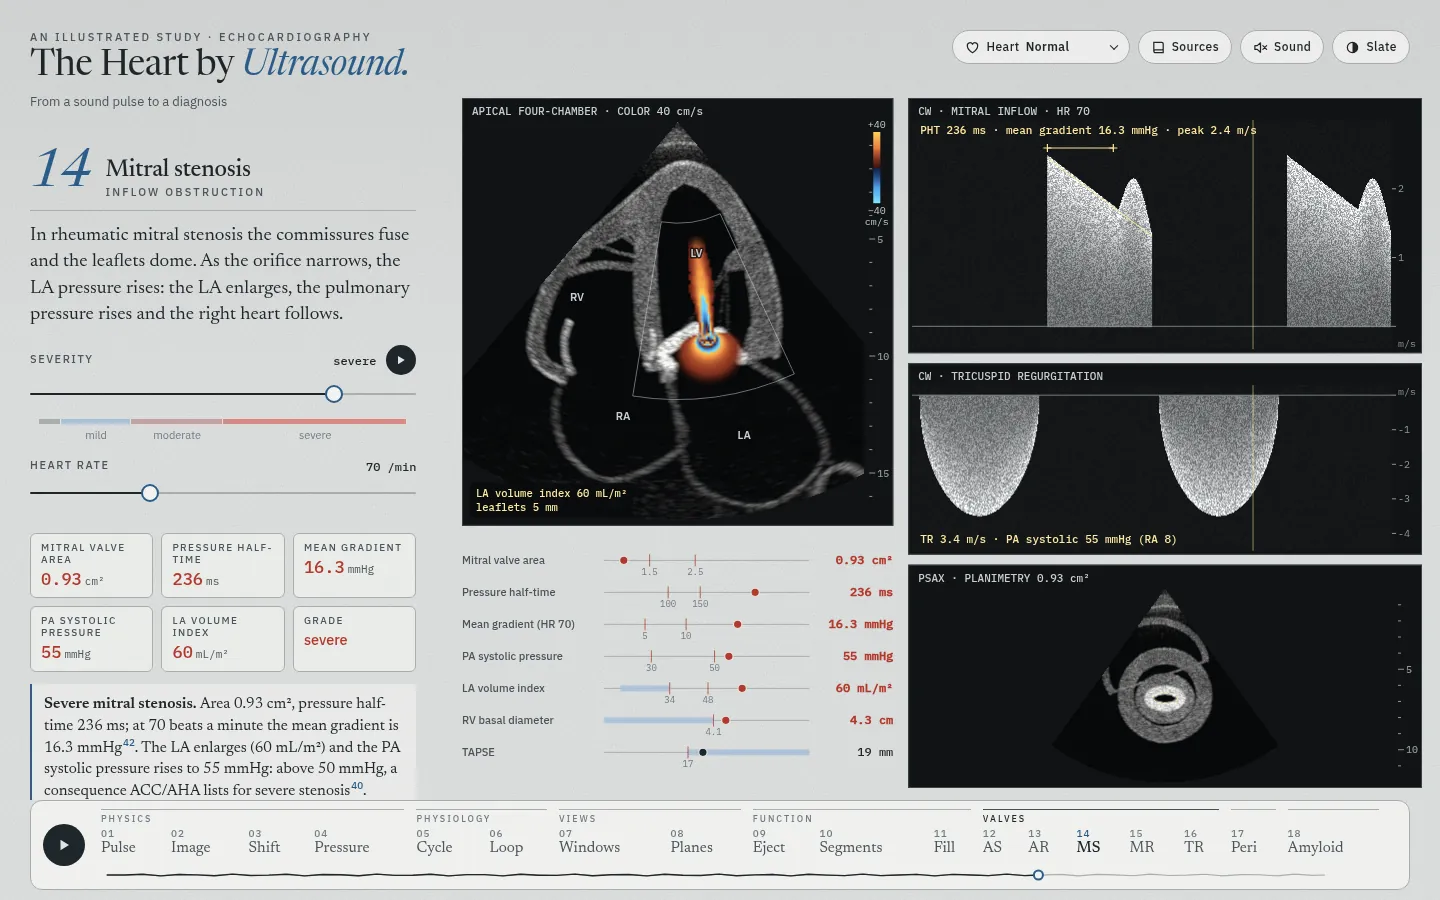
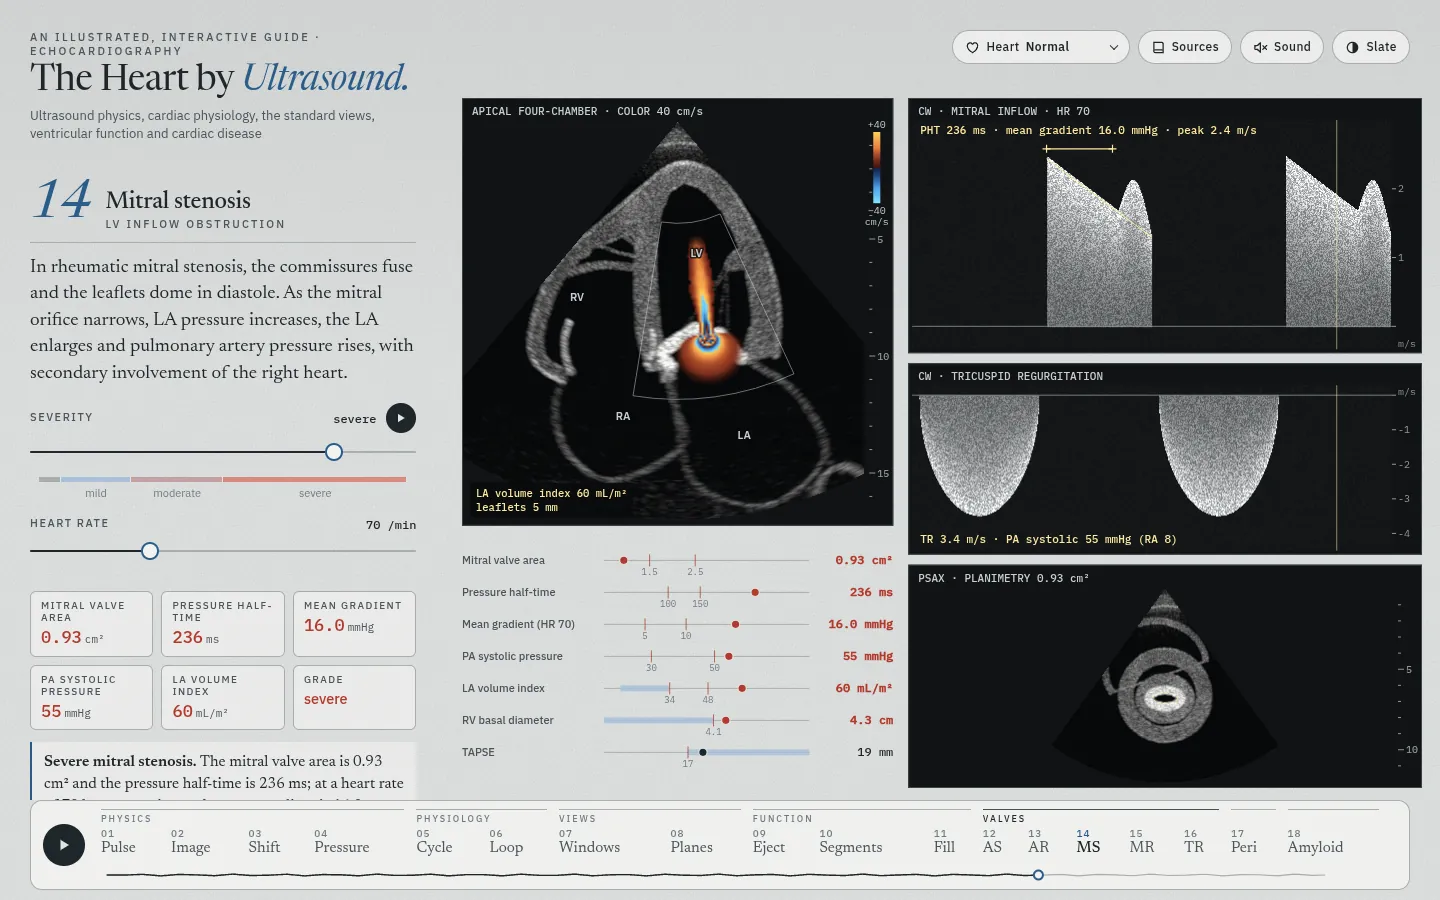
Mitral stenosis: a sourced mean gradient at every heart rate
The old model held the stroke volume at 70 mL and took the filling
period as RR - QS2 - IVRT. At 110/min the period fell to 170 ms, and
the severe valve of the video (0.88 cm2) gave 87.8 mmHg.

- src/ch/ms.js: the stroke volume stays at 70 mL and the diastolic
  filling period at 44% of RR, as measured with exercise in MS
  (Johnston 1986, Kim 2026, Moro 1989). The severe valve gives
  17.9 mmHg at 70/min and 44.0 mmHg at 110/min. The pressure
  half-time stays 220 / area at every rate.
- src/refs.js: Johnston 1986, Kim 2026, Moro 1989 and Sagar 1987,
  checked against PubMed and Crossref.
- index.html: chapter 14 states the exercise data and what the
  figure holds, with the four sources.
- README: the model note, and the check of the model against seven
  sets of measurements from six studies.
- docs/screenshots/ms.webp: retaken at its earlier state.

The chapter 14 video was rendered again (video/out, not in git).

Claude-Session: https://claude.ai/code/session_01L6ffXHBzN7s27eDw35KmyT

Changed region(s): [[0.0312, 0.0311, 0.3125, 0.9022], [0.7188, 0.1556, 0.75, 0.1867], [0.4688, 0.3733, 0.5, 0.4044]]

diff --git a/src/refs.js b/src/refs.js
@@ -41,7 +41,9 @@ export const REFS = {
   iac2025: {"text": "Intersocietal Accreditation Commission. IAC Standards and Guidelines for Adult Echocardiography Accreditation. Published April 1, 2025.", "url": "https://intersocietal.org/wp-content/uploads/2025/08/IACAdultEchocardiographyStandards2025.pdf"},
   iaea2014: {"text": "Lacefield JC. Physics of ultrasound; Ultrasound imaging. In: Dance DR, Christofides S, Maidment ADA, et al, eds. Diagnostic Radiology Physics: A Handbook for Teachers and Students. Vienna: International Atomic Energy Agency; 2014:291-331.", "url": "https://www-pub.iaea.org/MTCD/Publications/PDF/Pub1564webNew-74666420.pdf"},
   javadi2010: {"text": "Javadi MS, Lautamäki R, Merrill J, et al. Definition of vascular territories on myocardial perfusion images by integration with true coronary anatomy: a hybrid PET/CT analysis. J Nucl Med 2010;51:198-203.", "doi": "10.2967/jnumed.109.067488", "pmid": "20080895"},
+  johnston1986: {"text": "Johnston DL, Kostuk WJ. Left and right ventricular function during symptom-limited exercise in patients with isolated mitral stenosis. Chest 1986;89:186-191.", "doi": "10.1378/chest.89.2.186", "pmid": "3943378"},
   kelly1992: {"text": "Kelly RP, Ting CT, Yang TM, et al. Effective arterial elastance as index of arterial vascular load in humans. Circulation 1992;86:513-521.", "doi": "10.1161/01.cir.86.2.513", "pmid": "1638719"},
+  kim2026: {"text": "Kim J, Choi KH, Kim J, et al. Hemodynamic Responses to Exercise and Predictors of Exercise Capacity in Mitral Stenosis: Exercise Catheterization Study. JACC Asia 2026;6:1433-1443.", "doi": "10.1016/j.jacasi.2026.04.040", "pmid": "42360247"},
   klabunde_mr: {"text": "Klabunde RE. Mitral regurgitation. Cardiovascular Physiology Concepts (cvphysiology.com). Revised 02/03/2024.", "url": "https://cvphysiology.com/heart-disease/hd009c"},
   klein2013: {"text": "Klein AL, Abbara S, Agler DA, et al. American Society of Echocardiography clinical recommendations for multimodality cardiovascular imaging of patients with pericardial disease: endorsed by the Society for Cardiovascular Magnetic Resonance and Society of Cardiovascular Computed Tomography. J Am Soc Echocardiogr 2013;26:965-1012.e15.", "doi": "10.1016/j.echo.2013.06.023", "pmid": "23998693"},
   kovacs2009: {"text": "Kovacs G, Berghold A, Scheidl S, et al. Pulmonary arterial pressure during rest and exercise in healthy subjects: a systematic review. Eur Respir J 2009;34:888-894.", "doi": "10.1183/09031936.00145608", "pmid": "19324955"},
@@ -56,6 +58,7 @@ export const REFS = {
   mitchellwang2014: {"text": "Mitchell JR, Wang JJ. Expanding application of the Wiggers diagram to teach cardiovascular physiology. Adv Physiol Educ 2014;38:170-175.", "doi": "10.1152/advan.00123.2013", "pmid": "24913453"},
   mongegarcia2020: {"text": "Monge García MI, Santos A. Understanding ventriculo-arterial coupling. Ann Transl Med 2020;8:795.", "doi": "10.21037/atm.2020.04.10", "pmid": "32647720"},
   moody2023: {"text": "Moody WE, Turvey-Haigh L, Knight D, et al. British Society of Echocardiography guideline for the transthoracic echocardiographic assessment of cardiac amyloidosis. Echo Res Pract 2023;10:13.", "doi": "10.1186/s44156-023-00028-7", "pmid": "37653443"},
+  moro1989: {"text": "Moro E, Vletter WB, Pop G, et al. Exercise Doppler echocardiography in patients with pure mitral stenosis. G Ital Cardiol 1989;19:477-482.", "pmid": "2806782"},
   mukherjee2025: {"text": "Mukherjee M, Rudski LG, Addetia K, et al. Guidelines for the echocardiographic assessment of the right heart in adults and special considerations in pulmonary hypertension: recommendations from the American Society of Echocardiography. J Am Soc Echocardiogr 2025;38:141-86.", "doi": "10.1016/j.echo.2025.01.006", "pmid": "40044341"},
   nagueh1997: {"text": "Nagueh SF, Middleton KJ, Kopelen HA, et al. Doppler tissue imaging: a noninvasive technique for evaluation of left ventricular relaxation and estimation of filling pressures. J Am Coll Cardiol 1997;30:1527-1533.", "doi": "10.1016/s0735-1097(97)00344-6", "pmid": "9362412"},
   nagueh2009: {"text": "Nagueh SF, Appleton CP, Gillebert TC, et al. Recommendations for the Evaluation of Left Ventricular Diastolic Function by Echocardiography. J Am Soc Echocardiogr 2009;22:107-133.", "doi": "10.1016/j.echo.2008.11.023", "pmid": "19187853"},
@@ -78,6 +81,7 @@ export const REFS = {
   quinones2002: {"text": "Quiñones MA, Otto CM, Stoddard M, et al. Recommendations for quantification of Doppler echocardiography: a report from the Doppler Quantification Task Force of the Nomenclature and Standards Committee of the American Society of Echocardiography. J Am Soc Echocardiogr 2002;15:167-184.", "doi": "10.1067/mje.2002.120202", "pmid": "11836492"},
   rubin2000: {"text": "Rubin DN, Yazbek N, Garcia MJ, et al. Qualitative and quantitative effects of harmonic echocardiographic imaging on endocardial edge definition and side-lobe artifacts. J Am Soc Echocardiogr 2000;13:1012-1018.", "doi": "10.1067/mje.2000.108348", "pmid": "11093103"},
   rudski2010: {"text": "Rudski LG, Lai WW, Afilalo J, et al. Guidelines for the echocardiographic assessment of the right heart in adults: a report from the American Society of Echocardiography. J Am Soc Echocardiogr 2010;23:685-713.", "doi": "10.1016/j.echo.2010.05.010", "pmid": "20620859"},
+  sagar1987: {"text": "Sagar KB, Wann LS, Paulson WJ, et al. Role of exercise Doppler echocardiography in isolated mitral stenosis. Chest 1987;92:27-30.", "doi": "10.1378/chest.92.1.27", "pmid": "3595246"},
   saric2016: {"text": "Saric M, Armour AC, Arnaout MS, et al. Guidelines for the Use of Echocardiography in the Evaluation of a Cardiac Source of Embolism. J Am Soc Echocardiogr 2016;29:1-42.", "doi": "10.1016/j.echo.2015.09.011", "pmid": "26765302"},
   schimpf2008: {"text": "Schimpf R, Antzelevitch C, Haghi D, et al. Electromechanical coupling in patients with the short QT syndrome: further insights into the mechanoelectrical hypothesis of the U wave. Heart Rhythm 2008;5:241-245.", "doi": "10.1016/j.hrthm.2007.10.015", "pmid": "18242547"},
   schulzmenger2025: {"text": "Schulz-Menger J, Collini V, Gröschel J, et al. 2025 ESC Guidelines for the management of myocarditis and pericarditis. Eur Heart J 2025;46:3952-4041.", "doi": "10.1093/eurheartj/ehaf192", "pmid": "40878297"},

diff --git a/src/ch/ms.js b/src/ch/ms.js
@@ -12,13 +12,20 @@ import { JETS } from '../jets.js';
 
 const KEY = 'msS';
 const mean = (fn, n = 400) => { let a = 0; for (let i = 0; i < n; i++) a += fn((i + 0.5) / n); return a / n; };
+// With exercise in MS the stroke volume changes little, so the output rises with the rate
+// (Johnston 1986; Kim 2026), and the filling period keeps its share of the cycle: 424 ms at
+// 60/min and 272 ms at 100/min (Moro 1989).
+const SV = 70;                                                // mL at every heart rate
+const FILL = 0.44;                                            // filling period / RR
 
-/** Mitral inflow for a stenotic valve: PHT = 220 / MVA; the gradient rises with heart rate. */
+/**
+ * Mitral inflow for a stenotic valve: PHT = 220 / MVA at any heart rate. The mean flow rises with
+ * the rate and the mean gradient about as its square; with exercise from 74 to 110/min the mean
+ * gradient doubled, 9 to 18 mmHg (Sagar 1987).
+ */
 export function mitral({ mva, sv, hr }) {
   const RRms = 60000 / hr;
-  const qs2 = 541 - 2.2 * hr;                                // ms, Boudoulas 1981 (men)
-  const ivrt = 96 * Math.sqrt(RRms / 857);
-  const dfp = Math.max(80, RRms - qs2 - ivrt);                 // ms of filling
+  const dfp = FILL * RRms;                                    // ms of filling
   const pht = 220 / mva;                                      // ms (MVA = 220 / PHT)
   const dt = pht / (1 - Math.SQRT1_2);                        // linear fall: time to zero flow
   const env = (t) => Math.max(0, 1 - t / dt) + 0.25 * (t > dfp - 120 ? Math.sin(Math.PI * (t - dfp + 120) / 120) : 0);
@@ -44,7 +51,7 @@ export function model(s, hr = 70) {
   const m = TRK(s);
   m.s = s;
   m.mva = mvaOf(s);
-  Object.assign(m, mitral({ mva: m.mva, sv: 70, hr }));
+  Object.assign(m, mitral({ mva: m.mva, sv: SV, hr }));
   m.hr = hr;
   m.rap = m.pasp >= 50 ? 8 : 3;
   m.trv = Math.sqrt(Math.max(0, m.pasp - m.rap) / 4);
@@ -86,7 +93,7 @@ function a4c(ctx, box, m, t) {
   const since = t >= t0 ? t - t0 : t + RR - t0;
   const a = since < fill && m.s > 0.08 ? Math.min(1, since / 40) * clamp(m.env((since / fill) * m.dfp), 0.3, 1) : 0;
   const jl = 2.5 + 2.5 * m.s;
-  const jet = m.s > 0.08 ? { q: (70 / (m.dfp / 1000)) * 1.1, vc: m.tip * 0.6, jl, jw: 0.9 + m.tip * 0.4, a } : null;
+  const jet = m.s > 0.08 ? { q: (SV / (m.dfp / 1000)) * 1.1, vc: m.tip * 0.6, jl, jw: 0.9 + m.tip * 0.4, a } : null;
   drawA4C(ctx, box, g, {
     t, depth: 16 + m.s, title: fit(box.w, 'APICAL FOUR-CHAMBER · COLOR 40 cm/s', 'A4C · COLOR 40'),
     ...(JETS === 'plume'

diff --git a/index.html b/index.html
@@ -941,6 +941,7 @@
         <li><b>Planimetry</b> of the mitral orifice is performed in the parasternal short-axis view, which also displays the commissural fusion<span class="cite" data-ref="otto2020"></span>. When the methods give discordant areas, planimetry is the reference method<span class="cite" data-ref="baumgartner2009"></span>.</li>
         <li>The <b>pressure half-time</b> is the time required for the peak transmitral pressure gradient to fall by half; at that time, the velocity has fallen to about 70% of its peak<span class="cite" data-ref="pandian2023,quinones2002"></span>. The constant 220 is empirical<span class="cite" data-ref="baumgartner2009"></span>; Hatle described the method in 1979<span class="cite" data-ref="hatle1979"></span>. The pressure half-time is not reliable immediately after balloon valvotomy or in the presence of severe aortic regurgitation or abnormal LV compliance<span class="cite" data-ref="baumgartner2009"></span>.</li>
         <li>The <b>mean gradient</b> varies with heart rate and transmitral flow, so it is not a criterion of severity; it should be reported together with the heart rate<span class="cite" data-ref="otto2020"></span>. In the figure, the same valve produces a higher mean gradient at a faster heart rate.</li>
+        <li>With <b>exercise</b>, the stroke volume changes little, so the cardiac output rises with the heart rate<span class="cite" data-ref="johnston1986,kim2026"></span>. The diastolic filling period stays near 44% of the cardiac cycle: 424 ms at 60 and 272 ms at 100 beats per minute<span class="cite" data-ref="moro1989"></span>. In 10 patients with a mean valve area of 1.0 cm², exercise from 74 to 110 beats per minute raised the mean gradient from 9 to 18 mmHg<span class="cite" data-ref="sagar1987"></span>. The figure holds the stroke volume at 70 mL and the filling period at 44% of the cycle.</li>
         </ul>
         <h3>Key points</h3>
         <ol class="steps">

diff --git a/README.md b/README.md
@@ -111,7 +111,7 @@ Chapter 08 shows the planes together. The apical views share the LV long axis; t
 - **Play** moves the slider through the whole course and starts again. It starts when the page opens; any control stops it. The beat runs all the time; there is no cine switch.
 - **Several views change together.** A 2D view drawn to scale (a caliper on the screen reads the value in the text), three or four Doppler strips with a cursor at the same moment of the beat, a strip of measurements against their cut-offs, and the guideline table with the current column marked.
 - **Grades and stages.** Regurgitation follows ASE 2017 (Zoghbi), with EACVI 2022 for massive and torrential TR; aortic stenosis follows Baumgartner 2017; mitral stenosis follows ASE 2023 (Pandian); diastolic function follows ASE 2025 (Nagueh). The LV and atrial consequences follow the ACC/AHA 2020 stages (Otto), for example stage C2 in MR at LVEF ≤60% or end-systolic diameter ≥40 mm. Effusion size follows ESC 2015 and 2025 (<10, 10–20, >20 mm at end-diastole); the echo signs of tamponade follow ASE 2013 (Klein) and ESC 2025 (Schulz-Menger). The amyloid bands follow the ESC 2021 echo criteria (Garcia-Pavia): an unexplained wall of 12 mm or more, plus two of three findings (grade 2 or worse diastolic dysfunction; septal s′, e′ and a′ all below 5 cm/s; GLS below 15% in absolute value) or a multiparametric score of 8 or more (Boldrini 2020).
-- **What the model is.** The orifice or valve area drives the numbers (PISA, continuity equation, pressure half-time = 220 ÷ area); the chamber sizes, vein flows and pressures follow illustrative tracks set inside the guideline bands. In the pericardium page the effusion drives the pressure in the sac; tamponade starts where that pressure reaches the RA pressure, and the right heart then folds in during its relaxation. In the amyloid page the burden blends the heart mesh from its normal to its amyloid corner: the walls, cavity, atria, valves, atrial septum, RV wall and pericardial space come from the mesh (the calipers measure IVSd 9.0 to 16.8 mm, LVIDd 46.8 to 39.8 mm and PWd 8.9 to 15.0 mm), and the Doppler, strain and filling values follow a track from normal to grade 3 filling set inside the cited ranges. They are teaching values, not patient data.
+- **What the model is.** The orifice or valve area drives the numbers (PISA, continuity equation, pressure half-time = 220 ÷ area); the chamber sizes, vein flows and pressures follow illustrative tracks set inside the guideline bands. In the mitral stenosis page the heart rate changes as with exercise: the stroke volume stays at 70 mL and the diastolic filling period at 44% of the cardiac cycle (Johnston 1986, Kim 2026, Moro 1989), so the mean gradient rises about as the square of the rate. In the pericardium page the effusion drives the pressure in the sac; tamponade starts where that pressure reaches the RA pressure, and the right heart then folds in during its relaxation. In the amyloid page the burden blends the heart mesh from its normal to its amyloid corner: the walls, cavity, atria, valves, atrial septum, RV wall and pericardial space come from the mesh (the calipers measure IVSd 9.0 to 16.8 mm, LVIDd 46.8 to 39.8 mm and PWd 8.9 to 15.0 mm), and the Doppler, strain and filling values follow a track from normal to grade 3 filling set inside the cited ranges. They are teaching values, not patient data.
 
 ## The echo images
 
@@ -295,6 +295,23 @@ node tools/render-video.mjs --reel --stills=7,42.5             # PNG stills at t
 
 ## Checks run before this commit
 
+- Mitral stenosis gradient across heart rates (chapter 14). The old model held the stroke volume at 70 mL and took the filling period as RR − QS2 − IVRT, with QS2 from Boudoulas 1981. At 110/min the filling period fell to 170 ms, and the severe valve of the video (0.88 cm²) gave 87.8 mmHg. The model now holds the stroke volume at 70 mL and the filling period at 44% of RR. The sources are PubMed abstracts and, for Kim 2026, Faria 2020 and Saggu 2015, the tables of the full text in PMC.
+  - Stroke volume with exercise in MS: unchanged, and the cardiac output rose with the heart rate alone (Johnston 1986). The stroke volume index went from 47.7 to 49.8 mL/m² between 72.6 and 116.6/min, by the direct Fick method (Kim 2026). It was unchanged in the patients as a group (Dahan 1993, PMID 8426002). The stroke index changed little with exercise or propranolol (Giuffrida 1979, PMID 495501) and with atenolol (Stoll 1995, PMID 7863993). None of these series shows a fall in stroke volume at the faster rate.
+  - Filling period with exercise: 424 ms at 60/min and 272 ms at 100/min, 42% and 45% of RR (Moro 1989). The model gives 440 and 264 ms. With atenolol, at rest and on exercise, the heart rate fell by more than 20% and the filling period lengthened by more than 40% (Stoll 1995). A fixed share of RR lengthens by 25% for a 20% fall in rate.
+  - Mean gradient, the ratio of the value at the second rate to the value at the first, measured against the model (the old model in brackets). Where a study gives no valve area, the model uses the severe valve, 0.88 cm².
+    - Kim 2026, exercise, catheter, valve area 1.0 cm² (continuity): 72.6 → 116.6/min, 9.2 → 24.1 mmHg, 2.62. Model 2.56 (5.04).
+    - Faria 2020 (PMID 32127221), exercise, 1.41 cm²: 73.2 → 118.2/min, 7.7 → 19.2 mmHg, 2.49. Model 2.52 (4.99).
+    - Sagar 1987, exercise, 1.0 cm²: 74 → 110/min, 9 → 18 mmHg, 2.00. Model 2.19 (3.96).
+    - Giuffrida 1979, exercise, catheter: 95 → 130/min, 24 → 44 mmHg, 1.83. Model 1.87 (2.55).
+    - Giuffrida 1979, propranolol at rest, catheter: 95 → 82/min, 24 → 17 mmHg, 0.71. Model 0.75 (0.59).
+    - Moro 1989, exercise: 60 → 100/min, 11 → 21 mmHg, 1.91. Model 2.74 (5.88).
+    - Saggu 2015 (PMID 25636072), ivabradine for 6 weeks, 1.56 cm²: 103.5 → 65.9/min, 10.6 → 6.0 mmHg, 0.57. Model 0.44 (0.22).
+  - The model is within 10% of the first five rows. Moro 1989 (7 patients) and Saggu 2015 (6 weeks of rate control at rest) show a smaller change than the model.
+  - Severe valve, model: 13.3, 17.9, 23.3, 29.5, 36.4, 44.0 and 52.3 mmHg at 60, 70, 80, 90, 100, 110 and 120/min. The old model gave 10.9, 18.2, 29.1, 44.3, 64.2, 87.8 and 113.2 mmHg. The cardiac output goes from 4.2 to 8.4 L/min.
+  - At 70/min the gradient changes by less than 2% at each video step (severe 18.2 → 17.9 mmHg, moderate 4.4 → 4.3 mmHg). The grade table marks the same columns. The pressure half-time stays 220 ÷ area at every rate.
+  - Page: chapter 14, and all 18 chapters, at 1440 × 900 and 390 × 844: no page errors, no console errors or warnings, no sideways scroll. The Google Fonts stylesheet was stubbed, because headless Chromium in this sandbox does not trust the proxy certificate. The four new references resolve (45 to 48 in Sources). A sweep of 201 slider positions at 40 to 140/min (20,301 states) gives finite values, a gradient that rises with the rate at every position, and no unfilled text. `src/ch/ms.js` and `src/refs.js` parse as ES modules.
+  - Video 14 rendered again with its soundtrack (`pulse.py ms`: 20 bars at 109.8 BPM) in 3.8 min: 1,440 frames decoded, 48.0 s, 13.5 MiB, audio −14.9 LUFS and true peak −3.3 dBFS. No frame undoes the one before it (A, B, A); the only still stretches are the title and end cards. In frames late in the last two holds the captions read 17.9 mmHg at 70/min and 44.0 mmHg at 110/min, as the CW panel and the strip do. Each step name is on one line, and each caption on three lines at most.
+  - README screenshot `ms.webp` retaken at its earlier state (0.93 cm², 70/min): the mean gradient reads 16.0 mmHg (16.3 before). For the screenshot, the same font families came from `video/fonts` in place of the Google Fonts stylesheet.
 - Text rewrite, chapter by chapter, against the text before it: the numbers, the citation markers, the markup outside the prose, the JavaScript outside its strings, the strings the code compares and the right answer of each quiz question are unchanged, except for the corrections in the next item.
 - Corrections against the sources. The severe band of the TR regurgitant volume beyond severe is 45–59 mL (the table had 40–59, the band of the EROA row; massive 60–74 mL, torrential ≥75 mL). In aortic regurgitation, ACC/AHA stage C1 has an LV end-systolic diameter ≤50 mm (the text had <50). In severe MR the mitral E velocity is >1.2 m/s (a key point had ≥1.2). The LVEF bands are named mildly, moderately and severely abnormal, as in Lang 2015 Table 4; the code said "reduced", the term of the heart failure category at 41–49%. The AS caption says that the LV wall thickens: at the severe step the LV mass index (103 g/m²) is normal for a man, so "hypertrophy" was wrong. The tamponade caption names RV collapse and pulsus paradoxus only past the thresholds of its own sign table. Two values were checked against the ASE 2017 PDF and kept: a PISA radius ≥1.0 cm at a Nyquist limit of 30–40 cm/s is a specific criterion of severe MR, and >0.9 cm is the TR criterion.
 - MR and TR captions name the vein flow from the value that their panel draws (rounded to 0.02 m/s). At the MR video's severe step the caption said that systolic flow reverses while the panel said no systolic flow (S = −0.025 m/s); both now say that it stops. The TR video steps keep their text; 14 of 1,001 TR slider states change.
@@ -362,4 +379,4 @@ node tools/render-video.mjs --reel --stills=7,42.5             # PNG stills at t
 - Chapter 07 tags, 40 frames in each of five views (long axis, the three short-axis levels, four-chamber) at 1440 × 900: before this change they moved up to 45 px, one changed column, and six showed in only 5 to 30 frames; now none moves and every tag shows in every frame. All 18 chapters at 1440 × 900 and 390 × 844 under the normal, Barlow and amyloid hearts: no page errors, no sideways scroll. Layout audit of chapters 07 and 08, 45 states at 390 and 1440 px: no findings.
 - Aortic valve turn: after the turn the cusp bellies lie at −75°, 45° and 165° round the root, the left main origin within 5° of the left coronary cusp's centre and the right coronary origin 11° from the right coronary cusp's centre (before: both at commissures), and the valve's outer radius is unchanged (1.15 cm). Parasternal long axis, five-chamber and three-chamber frames compared before and after.
 - Citation audit: every cited id resolves to a reference, and every id used in live text also appears in the static text.
-- Earlier checks, still valid: plane changes rendered frame by frame; the free plane settles onto the two-chamber view at −60°, the three-chamber view at −120° and, from the long axis, the short axis at +90°, and a plane from another window never settles; echo images at 1× and 2× device scale; model checks of the diastolic algorithm, aortic stenosis, the mitral gradient across heart rates and the pressure–volume presets.
+- Earlier checks, still valid: plane changes rendered frame by frame; the free plane settles onto the two-chamber view at −60°, the three-chamber view at −120° and, from the long axis, the short axis at +90°, and a plane from another window never settles; echo images at 1× and 2× device scale; model checks of the diastolic algorithm, aortic stenosis and the pressure–volume presets. The first item replaces the earlier check of the mitral gradient across heart rates.
